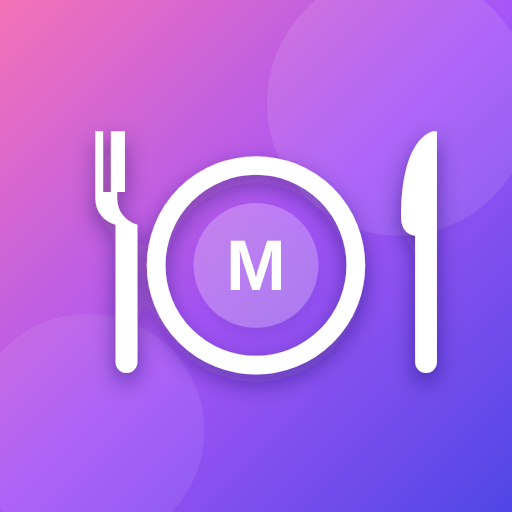
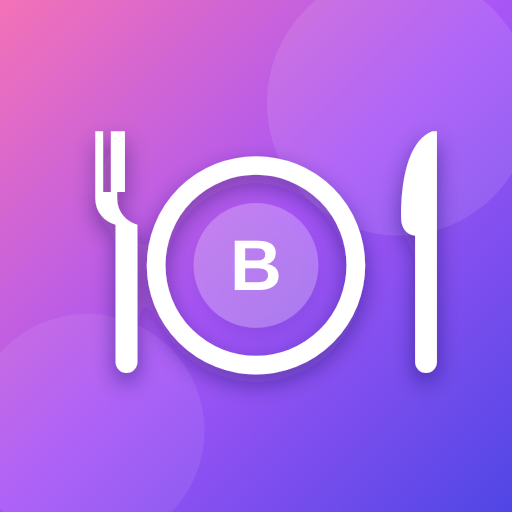
Rename to Bite Club and add type-or-say food logging
- New name, icon letter and backup filename (storage keys unchanged so
  existing data carries over)
- Quick-log bar on Today: type or dictate a meal and Claude splits it
  into items, using saved label foods for exact numbers
- Add sheet opens on Type it; Enter logs; Add button stays pinned

Claude-Session: https://claude.ai/code/session_01GMWBzpxKSjfo6J8WxHHjPx

Changed region(s): [[0.4375, 0.4688, 0.5625, 0.5625]]

diff --git a/app.js b/app.js
@@ -1,4 +1,4 @@
-import { estimateFood, readFitnessScreens, suggestMeals, reviewEating, suggestExampleDay, readLabel, prepareImage, MODELS, DEFAULT_MODEL } from "./ai.js?v=7";
+import { estimateFood, readFitnessScreens, suggestMeals, reviewEating, suggestExampleDay, readLabel, prepareImage, MODELS, DEFAULT_MODEL } from "./ai.js?v=8";
 import { buildExampleDay, mealBudgets, MEAL_PATTERNS } from "./mealplan.js?v=1";
 
 /* =========================================================
@@ -321,6 +321,10 @@ function renderToday() {
         </div>
       </div>
     </div>
+    ${state.apiKey ? `<form class="quicklog" id="quickLog">
+      <input id="quickLogText" class="input" enterkeyhint="send" autocomplete="off" placeholder="✍ Type or 🎤 say what you ate">
+      <button class="quicklog-go" aria-label="Log it">➜</button>
+    </form>` : ""}
     ${needsWeigh ? `<button class="banner pop" data-act="log-weight"><span class="big-emo">⚖</span><div><b>It's weigh-in day!</b><span>Log your weekly number to track real progress.</span></div></button>` : ""}
     <div class="card macros">
       <div class="card-head" style="margin-bottom:0"><h2>Macros</h2><button class="icon-q" data-act="edit-macros" aria-label="What are macros?">?</button></div>
@@ -345,6 +349,14 @@ function renderToday() {
     </div>
     <button class="btn secondary" data-act="copy-yesterday">Copy yesterday's meals</button>
   `;
+
+  $("#quickLog")?.addEventListener("submit", (e) => {
+    e.preventDefault();
+    const text = $("#quickLogText").value.trim();
+    if (!text) return;
+    $("#quickLogText").blur();
+    openAdd(null, text);
+  });
 
   // Celebrate hitting the protein goal (once per day).
   if (isToday && tg.protein && tot.p >= tg.protein) {
@@ -646,7 +658,7 @@ function profileForm(p, isNew) {
   const nearestPace = paceOpts.reduce((a, b) => (Math.abs(b[0] - curPace) < Math.abs(a[0] - curPace) ? b : a))[0];
 
   return `
-  ${isNew && !Object.keys(state.profiles).length ? `<div class="welcome"><img class="logo" src="icons/icon.svg" alt=""><h2>Welcome to Macro Pal</h2><p>A few quick details and we'll set your daily calorie and macro targets.</p></div><br>` : sheetTitle(isNew ? "Add a person" : "Body stats & goal", true)}
+  ${isNew && !Object.keys(state.profiles).length ? `<div class="welcome"><img class="logo" src="icons/icon.svg" alt=""><h2>Welcome to Bite Club</h2><p>A few quick details and we'll set your daily calorie and macro targets.</p></div><br>` : sheetTitle(isNew ? "Add a person" : "Body stats & goal", true)}
   <form id="profileForm" autocomplete="off">
     <label class="field"><span>Name</span><input name="name" required maxlength="24" value="${esc(p?.name || "")}" placeholder="Your name"></label>
     <div class="seg" data-units>${["imperial", "metric"].map((u) => `<button type="button" class="${(p?.units || "imperial") === u ? "on" : ""}" data-units-v="${u}">${u === "imperial" ? "lb / ft" : "kg / cm"}</button>`).join("")}</div>
@@ -791,9 +803,12 @@ function openWeightSheet() {
    ========================================================= */
 let addState = null;
 
-function openAdd(meal) {
-  addState = { meal: meal || defaultMeal(), mode: "photo", q: "" };
+function openAdd(meal, text = "") {
+  addState = { meal: meal || defaultMeal(), mode: state.apiKey ? "type" : "foods", q: "" };
+  photo = { image: null, est: null, answers: {}, desc: text };
   renderAdd();
+  if (text && state.apiKey) runEstimate(false);
+  else setTimeout(() => $("#photoDesc")?.focus(), 250);
 }
 
 function mealPicker() {
@@ -801,8 +816,9 @@ function mealPicker() {
 }
 
 function renderAdd() {
-  const modes = [["photo", "📷 Photo"], ["label", "🏷 Label"], ["foods", "My foods"], ["quick", "Quick add"]];
+  const modes = [["type", "✍ Type it"], ["photo", "📷 Photo"], ["label", "🏷 Label"], ["foods", "My foods"], ["quick", "Manual"]];
   let body = "";
+  if (addState.mode === "type") body = typeBody();
   if (addState.mode === "photo") body = photoBody();
   if (addState.mode === "label") body = labelBody();
   if (addState.mode === "foods") body = foodsBody();
@@ -815,6 +831,11 @@ function renderAdd() {
   else $("#sheetBody").innerHTML = html;
   if (addState.mode === "foods") bindFoodSearch();
   if (addState.mode === "label") bindLabel();
+  if (addState.mode === "type") {
+    $("#photoDesc")?.addEventListener("keydown", (e) => {
+      if (e.key === "Enter" && !e.shiftKey) { e.preventDefault(); runEstimate(false); }
+    });
+  }
   if (addState.mode === "quick") bindQuick();
 }
 
@@ -893,6 +914,26 @@ function rememberFood(en) {
   if (!f) { f = { id: uid(), uses: 0 }; p.foods.push(f); }
   Object.assign(f, { name: en.name, portion: en.portion, kcal: en.kcal, p: en.p, c: en.c, f: en.f, lastUsed: Date.now() });
   f.uses = (f.uses || 0) + 1;
+}
+
+/** "Just type or say it": free text, parsed by Claude, reviewed with the photo UI. */
+function typeBody() {
+  if (!state.apiKey) {
+    return `<div class="note">Typing or saying what you ate uses Claude. Add your Anthropic API key once in <b>Settings → API key</b>.</div><button class="btn" data-act="edit-ai">Set up Claude</button>`;
+  }
+  if (!photo) photo = { image: null, est: null, answers: {}, desc: "" };
+  if (photo.loading || photo.est) return photoBody();
+  return `<label class="field"><span>What did you eat?</span>
+      <textarea id="photoDesc" rows="3" enterkeyhint="send" placeholder="e.g. 2 eggs, a slice of toast with butter and a black coffee">${esc(photo.desc)}</textarea></label>
+    <p class="hint" style="margin-top:-6px">🎤 Tap the microphone on your keyboard to just say it. Amounts help: "85 g granola", "6 oz chicken", "half a burrito".</p>
+    ${photo.error ? `<div class="note warn">${esc(photo.error)}</div>` : ""}
+    <button class="btn" data-act="run-estimate">✨ Log it</button>`;
+}
+
+/** Saved foods with exact numbers, so "85 g of my granola" uses the label. */
+function knownFoodsText() {
+  const foods = [...(P().foods || [])].sort((a, b) => (b.uses || 0) - (a.uses || 0)).slice(0, 40);
+  return foods.map((f) => `- ${f.name}: ${f.kcal} kcal, P ${f.p} g, C ${f.c} g, F ${f.f} g per ${f.label?.servText || f.portion || "serving"}`).join("\n");
 }
 
 /* ---------- Nutrition label + scale ---------- */
@@ -1047,7 +1088,7 @@ function photoBody() {
           <label style="color:var(--fat)">Fat<input class="input num" data-k="f" type="number" inputmode="decimal" value="${it.f}"></label>
         </div></div>`).join("") || `<div class="empty">No food found. Try another photo or add a description.</div>`}</div>
     ${est.items.length ? `<div class="ai-total num"><span>Total</span><span>${r0(tot.kcal)} kcal · P ${r0(tot.p)} · C ${r0(tot.c)} · F ${r0(tot.f)}</span></div>
-    <button class="btn" data-act="ai-add">Add ${est.items.length > 1 ? `all ${est.items.length} items` : "to log"}</button>` : ""}
+    <button class="btn sticky-add" data-act="ai-add">Add ${est.items.length > 1 ? `all ${est.items.length} items` : "to log"}</button>` : ""}
     <button class="btn secondary" data-act="ai-reset">Start over</button>`;
 }
 
@@ -1068,7 +1109,7 @@ function syncAiEdits() {
 async function runEstimate(refine = false) {
   const descEl = $("#photoDesc");
   if (descEl) photo.desc = descEl.value;
-  if (!photo.image && !photo.desc.trim()) return toast("Add a photo or a description first.");
+  if (!photo.image && !photo.desc.trim()) return toast(addState?.mode === "type" ? "Type what you ate first." : "Add a photo or a description first.");
   let answers = [], previous = null;
   if (refine) {
     syncAiEdits();
@@ -1082,7 +1123,7 @@ async function runEstimate(refine = false) {
   try {
     const est = await estimateFood({
       apiKey: state.apiKey, model: state.model || DEFAULT_MODEL,
-      image: photo.image, description: photo.desc, answers, previous, diet: P().diet || [],
+      image: photo.image, description: photo.desc, answers, previous, diet: P().diet || [], known: photo.image ? "" : knownFoodsText(),
     });
     if (!photo) return; // sheet was closed
     photo.est = est; photo.answers = {};
@@ -1310,7 +1351,7 @@ function exportData() {
   const blob = new Blob([JSON.stringify({ ...state, apiKey: "" }, null, 2)], { type: "application/json" });
   const a = document.createElement("a");
   a.href = URL.createObjectURL(blob);
-  a.download = `macropal-backup-${today()}.json`;
+  a.download = `biteclub-backup-${today()}.json`;
   document.body.appendChild(a); a.click(); a.remove();
   setTimeout(() => URL.revokeObjectURL(a.href), 1000);
 }
@@ -1325,7 +1366,7 @@ $("#importInput").addEventListener("change", async (e) => {
     state = { ...data, apiKey: state.apiKey, model: data.model || state.model };
     if (!state.profiles[state.activeId]) state.activeId = Object.keys(state.profiles)[0];
     save(); render(); toast("Backup restored");
-  } catch { toast("That file isn't a Macro Pal backup."); }
+  } catch { toast("That file isn't a Bite Club backup."); }
 });
 
 $("#photoInput").addEventListener("change", async (e) => {
@@ -2173,7 +2214,7 @@ document.addEventListener("click", (ev) => {
     case "day-today": currentDay = today(); render(); break;
     case "open-add":
       if (tab === "fitness" && !t.dataset.meal) { openFitnessAdd(); break; }
-      photo = null; lbl = null; openAdd(t.dataset.meal); break;
+      lbl = null; openAdd(t.dataset.meal); break;
     case "open-import": shots ? (shots = { images: [], loading: false, error: null, result: null }, renderImport()) : (closeSheet(), openImport()); break;
     case "pick-shots": $("#shotInput").click(); break;
     case "run-shots": runShots(); break;
@@ -2283,7 +2324,7 @@ document.addEventListener("click", (ev) => {
       break;
     }
     case "ai-rm": syncAiEdits(); photo.est.items.splice(Number(t.dataset.i), 1); renderAdd(); break;
-    case "ai-reset": photo = null; renderAdd(); break;
+    case "ai-reset": photo = addState?.mode === "type" ? { image: null, est: null, answers: {}, desc: photo?.desc || "" } : null; renderAdd(); break;
     case "ai-add": {
       syncAiEdits();
       const meal = addState.meal;

diff --git a/ai.js b/ai.js
@@ -20,6 +20,7 @@ How to work:
 - If a detail would change the total meaningfully (cooking oil or butter, dressing or sauce, portion size, milk type, hidden ingredients, how much was actually eaten), ask up to 3 short clarifying questions, each with 2-4 tappable answer options. Ask nothing if the estimate is already solid.
 - If the user has already answered questions, use the answers and do not ask the same things again.
 - If there is no food in the photo, return no items and say so in notes.
+- With no photo, split the description into separate items, use the amounts given (grams, oz, cups, pieces, "half", etc.), and assume typical portions when none are given.
 - Portions should be written in everyday units (e.g. "1 cup", "6 oz", "2 slices").
 - notes: one or two sentences on key assumptions. Be plain and friendly.`;
 
@@ -109,14 +110,17 @@ function loadImg(file) {
  * @param {Array<{question:string, answer:string}>} o.answers  answers to earlier questions
  * @param {object|null} o.previous  the previous estimate, when refining
  */
-export async function estimateFood({ apiKey, model, image, description, answers = [], previous = null, diet = [] }) {
+export async function estimateFood({ apiKey, model, image, description, answers = [], previous = null, diet = [], known = "" }) {
   const content = [];
   if (image) {
     content.push({ type: "image", source: { type: "base64", media_type: image.mediaType, data: image.base64 } });
   }
   let text = description?.trim()
-    ? `Description from the user: ${description.trim()}`
+    ? `${image ? "Description from the user" : "The user typed or dictated what they ate (no photo)"}: ${description.trim()}`
     : "Estimate the food in this photo.";
+  if (known) {
+    text += `\n\nFoods the user has saved, with exact nutrition. When they mention one of these, use these numbers scaled to the amount they say:\n${known}`;
+  }
   if (diet.length) {
     text += `\n\nThe user's dietary needs: ${diet.join(", ")}. If any item likely conflicts (e.g. bread, pasta, breading or soy sauce for gluten-free), say so briefly in notes.`;
   }

diff --git a/index.html b/index.html
@@ -3,17 +3,17 @@
 <head>
   <meta charset="utf-8">
   <meta name="viewport" content="width=device-width, initial-scale=1, viewport-fit=cover">
-  <title>Macro Pal</title>
+  <title>Bite Club</title>
   <meta name="description" content="Track calories and macros toward your goal weight.">
   <meta name="theme-color" content="#7c3aed">
   <meta name="apple-mobile-web-app-capable" content="yes">
   <meta name="mobile-web-app-capable" content="yes">
   <meta name="apple-mobile-web-app-status-bar-style" content="black-translucent">
-  <meta name="apple-mobile-web-app-title" content="Macro Pal">
+  <meta name="apple-mobile-web-app-title" content="Bite Club">
   <link rel="manifest" href="manifest.json">
   <link rel="icon" href="icons/icon.svg" type="image/svg+xml">
-  <link rel="apple-touch-icon" href="icons/apple-touch-icon.png?v=2">
-  <link rel="stylesheet" href="styles.css?v=8">
+  <link rel="apple-touch-icon" href="icons/apple-touch-icon.png?v=3">
+  <link rel="stylesheet" href="styles.css?v=9">
 </head>
 <body>
   <header class="topbar">
@@ -56,6 +56,6 @@
   <input type="file" id="labelInput" accept="image/*" hidden>
   <input type="file" id="importInput" accept="application/json" hidden>
 
-  <script type="module" src="app.js?v=8"></script>
+  <script type="module" src="app.js?v=9"></script>
 </body>
 </html>

diff --git a/styles.css b/styles.css
@@ -435,3 +435,10 @@ input[type=range] { width: 100%; accent-color: var(--accent); height: 28px; }
 .compare figure { margin: 0; }
 .compare img { width: 100%; aspect-ratio: 3/4; object-fit: cover; border-radius: 14px; display: block; }
 .compare figcaption { text-align: center; font-size: 13px; font-weight: 600; margin-top: 6px; }
+
+/* Quick log bar on Today */
+.quicklog { display: flex; gap: 8px; align-items: center; background: var(--surface); border-radius: 999px; padding: 6px 6px 6px 8px; box-shadow: var(--shadow); border: 1px solid var(--line); }
+.quicklog .input { border: 0; background: transparent; padding: 10px 8px; min-width: 0; flex: 1; }
+.quicklog .input:focus { outline: none; }
+.quicklog-go { width: 42px; height: 42px; border-radius: 50%; flex: none; background: linear-gradient(135deg, var(--g1), var(--g2)); color: #fff; font-size: 20px; font-weight: 700; }
+.sticky-add { position: sticky; bottom: 8px; z-index: 2; box-shadow: 0 8px 24px color-mix(in srgb, var(--g2) 40%, transparent); }

diff --git a/sw.js b/sw.js
@@ -1,5 +1,5 @@
 // Offline cache for the app shell. Bump VERSION when files change.
-const VERSION = "macropal-v9";
+const VERSION = "macropal-v10";
 const SHELL = ["./", "index.html", "styles.css", "app.js", "ai.js", "manifest.json", "icons/icon.svg", "icons/apple-touch-icon.png", "icons/icon-192.png", "icons/icon-512.png", "icons/icon-maskable-512.png", "mealplan.js", "vendor/anthropic-sdk.js"];
 
 self.addEventListener("install", (e) => {

diff --git a/README.md b/README.md
@@ -1,4 +1,4 @@
-# Macro Pal
+# Bite Club
 
 A calorie and macro tracker that runs as an installable web app (PWA) on iPhone, iPad and Mac. It has no build step: these files are the whole app.
 
@@ -6,7 +6,7 @@ A calorie and macro tracker that runs as an installable web app (PWA) on iPhone,
 - Profile setup: sex, age, height, weight, goal weight, activity level and pace. Calculates BMR, maintenance calories, a daily calorie goal and an estimated goal date (Mifflin-St Jeor).
 - Macro coach: pick calories by pace, protein by grams per lb of goal weight, fat at a healthy amount, and carbs fill the rest. Includes a "What are macros?" explainer. % presets are still available.
 - Daily log with Breakfast, Lunch, Dinner and Snacks, a calorie ring, macro bars, water cups and "copy yesterday".
-- Food entry three ways: photo + Claude estimate (with follow-up questions), My foods (everything you log is saved), Quick add.
+- Food entry: type or dictate what you ate (from a bar on the Today screen), photo + Claude estimate, nutrition label scan + scale weight, My foods, or manual entry.
 - Weight log with a 7-day trend chart, plus a weekly weigh-in day whose number is highlighted with week-over-week change.
 - Fitness tab: workouts, steps, sleep, resting HR and HRV. Import Peloton, RingConn or other screenshots and Claude fills them in. Workout calories can optionally be added to the food goal.
 - 10 gradient themes, a daily greeting with a logging streak, and confetti when you hit your protein goal.
